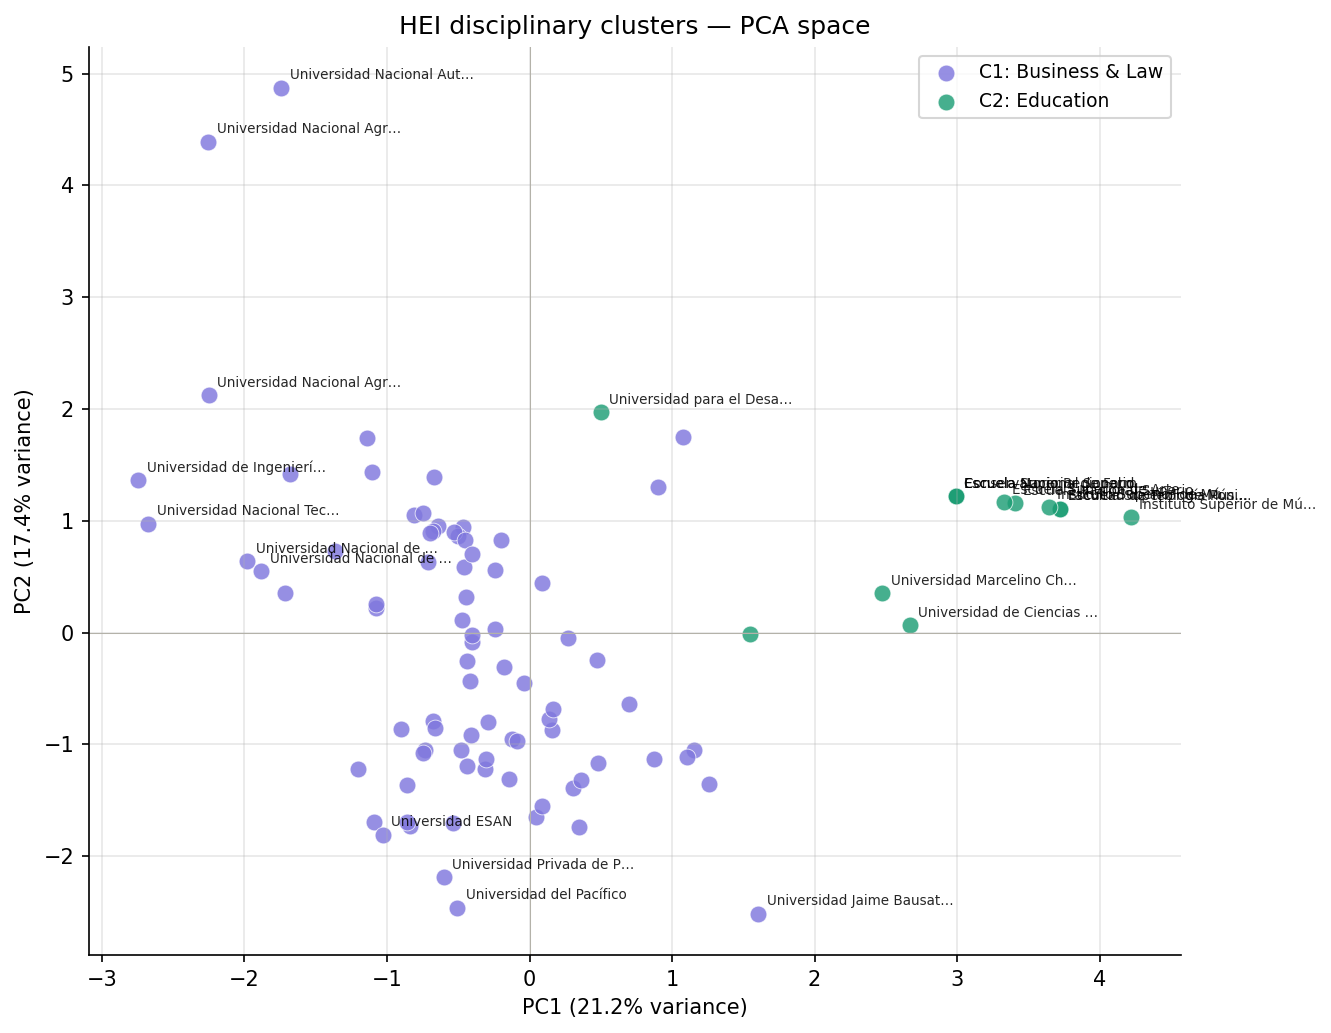
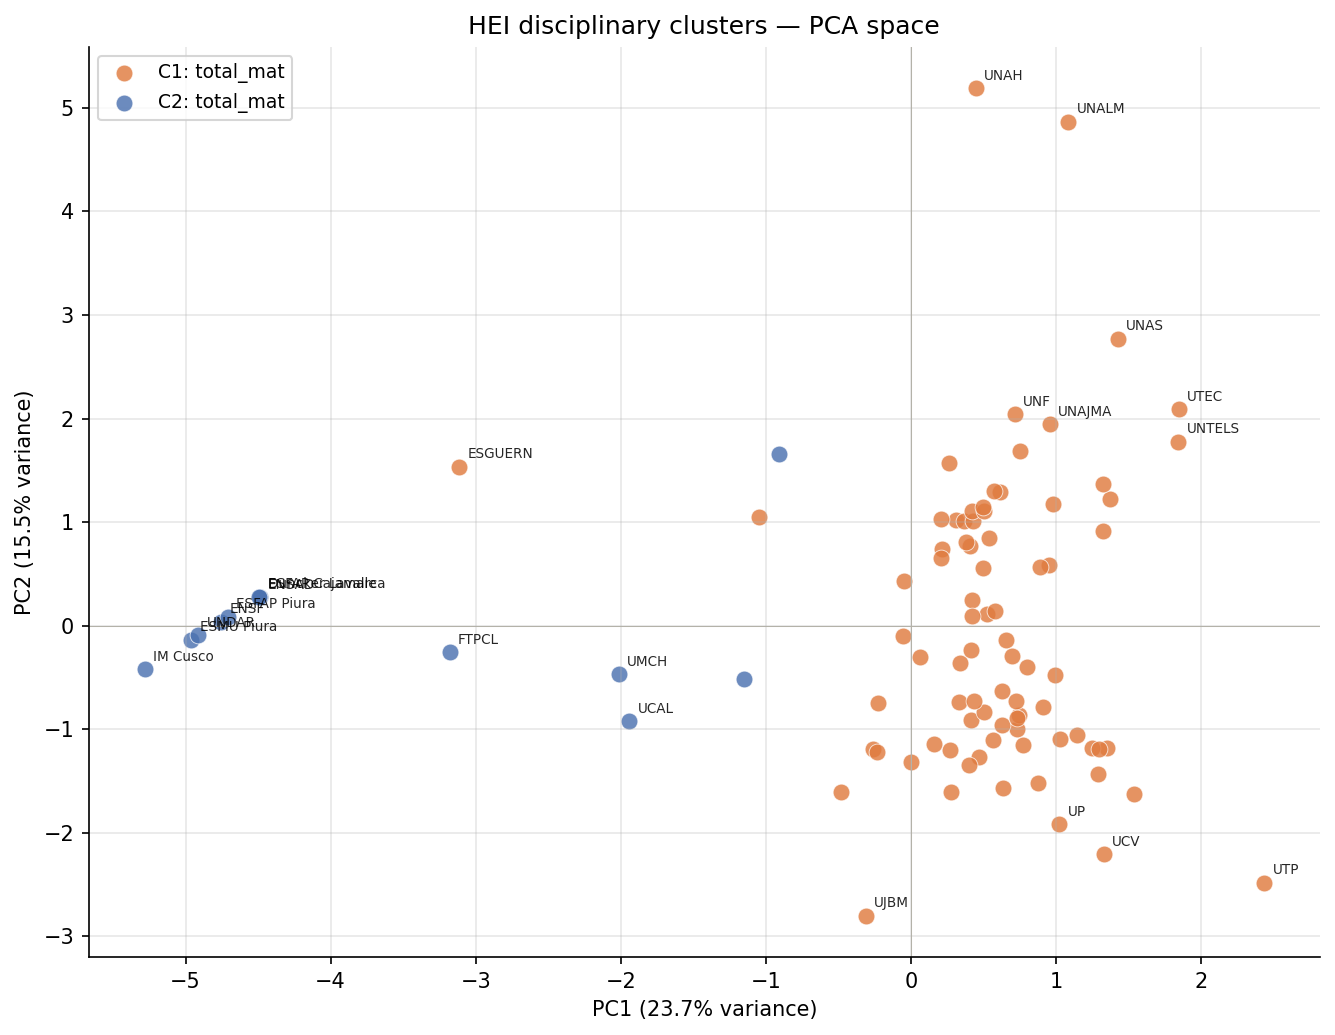
actualizar figuras con siglas y agregar script

diff --git a/src/regenerar_figuras_siglas.py b/src/regenerar_figuras_siglas.py
@@ -1,0 +1,306 @@
+"""
+regenerar_figuras_siglas.py
+============================
+Regenera los 3 gráficos usando las siglas oficiales de cada universidad:
+  - outputs/figures/03a_dendrograma.png
+  - outputs/figures/03b_scatter_kmeans.png
+  - outputs/figures/07b_scatter_disciplinar.png
+
+Uso:
+    python src/regenerar_figuras_siglas.py
+
+Requisitos previos (deben existir en data/):
+    - X_pca.npy
+    - k_optimo.npy
+    - labels_final.npy
+    - labels_disciplinar.npy
+    - matriz_maestra.csv
+    - matriculado_2025_I.csv  (o .zip)
+"""
+
+import sys
+import numpy as np
+import pandas as pd
+import matplotlib.pyplot as plt
+from scipy.cluster.hierarchy import dendrogram, linkage, fcluster
+from sklearn.decomposition import PCA
+from sklearn.cluster import KMeans
+from sklearn.preprocessing import StandardScaler
+from pathlib import Path
+
+# ── Paths ────────────────────────────────────────────────────────────────────
+sys.path.insert(0, str(Path(__file__).parent))
+from config import DATA_DIR, FIG_DIR, TABLE_DIR, RANDOM_STATE, MPL_STYLE, \
+                   CLUSTER_COLORS, DATA_URLS, K_FINAL
+
+plt.rcParams.update(MPL_STYLE)
+
+# ── Diccionario de siglas  ───────────────────────────────────────────────────
+SIGLAS = {
+    "Universidad Nacional Agraria La Molina":                              "UNALM",
+    "Universidad Nacional Agraria de la Selva":                            "UNAS",
+    "Universidad Marcelino Champagnat":                                    "UMCH",
+    "Universidad Autónoma del Perú S.A.C.":                                "Autónoma",
+    "Universidad para el Desarrollo Andino":                               "UDEA",
+    "Universidad Nacional de Tumbes":                                      "UNTUMBES",
+    "Universidad de Piura":                                                "UDEP",
+    "Universidad Tecnológica del Perú S.A.C.":                            "UTP",
+    "Universidad de Huánuco":                                              "UDH",
+    "Universidad Andina del Cusco":                                        "UAC",
+    "Universidad Nacional de Cajamarca":                                   "UNC",
+    "Universidad Privada de Huancayo Franklin Roosevelt S.A.C.":          "U. Roosevelt",
+    "Universidad del Pacífico":                                            "UP",
+    "Universidad ESAN":                                                    "ESAN",
+    "Universidad Nacional Intercultural de Quillabamba":                   "UNIQ",
+    "Universidad Católica de Trujillo Benedicto XVI":                      "UCT",
+    "Universidad Nacional Autónoma de Tayacaja Daniel Hernández Morillo":  "UNAT",
+    "Universidad Nacional de Juliaca":                                     "UNAJ",
+    "Universidad San Pedro":                                               "USP",
+    "Universidad Nacional de Frontera":                                    "UNF",
+    "Universidad Nacional José María Arguedas":                            "UNAJMA",
+    "Universidad José Carlos Mariátegui":                                  "UJCM",
+    "Universidad César Vallejo S.A.C.":                                    "UCV",
+    "Universidad Nacional Micaela Bastidas de Apurímac":                   "UNAMBA",
+    "Universidad Católica Santo Toribio de Mogrovejo":                     "USAT",
+    "Universidad Privada de Pucallpa S.A.C.":                             "UPP",
+    "Universidad Nacional del Altiplano":                                  "UNA Puno",
+    "Universidad Católica de Santa María":                                 "UCSM",
+    "Universidad Inca Garcilaso de la Vega Asociación Civil":              "UIGV",
+    "Universidad Señor de Sipán S.A.C.":                                  "USS",
+    "Universidad Nacional Toribio Rodríguez de Mendoza de Amazonas":       "UNTRM",
+    "Universidad Antonio Ruiz de Montoya":                                 "UARM",
+    "Universidad Católica San Pablo":                                      "UCSP",
+    "Universidad Nacional Federico Villarreal":                            "UNFV",
+    "Universidad Nacional Amazónica de Madre de Dios":                     "UNAMAD",
+    "Universidad Privada Antenor Orrego":                                  "UPAO",
+    "Universidad Católica Los Ángeles de Chimbote":                        "ULADECH",
+    "Universidad Femenina del Sagrado Corazón":                            "UNIFE",
+    "Universidad de Lima":                                                 "ULIMA",
+    "Escuela de Postgrado Gerens S.A.":                                    "GERENS",
+    "Universidad Nacional Hermilio Valdizán de Huánuco":                   "UNHEVAL",
+    "Universidad Continental S.A.C.":                                     "Continental",
+    "Pontificia Universidad Católica del Perú":                            "PUCP",
+    "Universidad Privada del Norte S.A.C.":                               "UPN",
+    "Universidad Científica del Sur S.A.C.":                              "UCSUR",
+    "Universidad Católica Sedes Sapientiae":                               "UCSS",
+    "Universidad Nacional del Callao":                                     "UNAC",
+    "Universidad Ricardo Palma":                                           "URP",
+    "Universidad Privada San Juan Bautista S.A.C.":                       "UPSJB",
+    "Universidad Nacional de Cañete":                                      "UNDC",
+    "Universidad Nacional Tecnológica de Lima Sur":                        "UNTELS",
+    "Universidad Nacional Santiago Antúnez de Mayolo":                     "UNASAM",
+    "Universidad de Ingeniería y Tecnología":                              "UTEC",
+    "Universidad Peruana de Ciencias Aplicadas S.A.C.":                   "UPC",
+    "Universidad Privada Norbert Wiener S.A.":                            "U. Wiener",
+    "Facultad de Teología Pontificia y Civil de Lima":                     "FTPCL",
+    "Universidad Nacional de Moquegua":                                    "UNAM",
+    "Universidad Nacional Daniel Alcides Carrión":                         "UNDAC",
+    "Universidad Nacional de San Agustín de Arequipa":                     "UNSA",
+    "Universidad Nacional de Jaén":                                        "UNJ",
+    "Universidad Peruana Los Andes":                                       "UPLA",
+    "Universidad Le Cordon Bleu S.A.C.":                                  "ULCB",
+    "Asociación Civil Universidad de Ciencias y Humanidades":              "UCH",
+    "Universidad Privada de Tacna":                                        "UPT",
+    "Universidad de San Martín de Porres":                                 "USMP",
+    "Universidad Nacional de Piura":                                       "UNP",
+    "Universidad Nacional de San Martín":                                  "UNSM",
+    "Universidad Nacional Autónoma de Chota":                              "UNACH",
+    "Universidad Nacional José Faustino Sánchez Carrión":                  "UNJFSC",
+    "Universidad Nacional Intercultural de la Selva Central Juan Santos Atahualpa": "UNISCJSA",
+    "Universidad Nacional Autónoma de Huanta":                             "UNAH",
+    "Universidad María Auxiliadora S.A.C.":                               "UMA",
+    "Universidad Peruana Unión":                                           "UPeU",
+    "Universidad Nacional de Huancavelica":                                "UNH",
+    "Universidad Andina Néstor Cáceres Velásquez":                         "UANCV",
+    "Universidad Nacional Pedro Ruiz Gallo":                               "UNPRG",
+    "Universidad Alas Peruanas S.A.":                                     "UAP",
+    "Universidad Peruana Cayetano Heredia":                                "UPCH",
+    "Universidad Jaime Bausate y Meza":                                    "UJBM",
+    "Universidad Nacional de San Cristóbal de Huamanga":                   "UNSCH",
+    "Universidad Nacional Mayor de San Marcos":                            "UNMSM",
+    "Universidad Nacional de la Amazonía Peruana":                         "UNAP",
+    "Universidad Científica del Perú":                                     "UCP",
+    "Universidad de Ciencias y Artes de América Latina S.A.C.":           "UCAL",
+    "Universidad Nacional del Centro del Perú":                            "UNCP",
+    "Escuela de Posgrado Newman S.A.C.":                                  "Newman",
+    "Universidad San Ignacio de Loyola S.R.L.":                           "USIL",
+    'Escuela Nacional Superior de Arte Dramático "Guillermo Ugarte Chamorro"': "ENSAD",
+    "Escuela Nacional Superior de Folklore José María Arguedas":           "ENSF",
+    "Escuela Superior de Guerra Naval":                                    "ESGUERN",
+    "Conservatorio Regional de Música Luis Duncker Lavalle":               "Duncker Lavalle",
+    "Instituto Superior de Música Público Daniel Alomía Robles de Huánuco": "UNDAR",
+    "Escuela Superior de Formación Artística Sérvulo Gutiérrez Alarcón de Ica": "ESFA Ica",
+    "Escuela Superior de Música Pública José María Valle Riestra de Piura": "ESMU Piura",
+    "Escuela Nacional Superior de Ballet":                                 "ENSB",
+    'Escuela Superior de Arte Dramático "Virgilio Rodríguez Nache"':       "ESAD Trujillo",
+    "Escuela Superior de Formación Artística Pública Mario Urteaga Alvarado de Cajamarca": "ESFAP Cajamarca",
+    "Escuela Superior de Arte Pública Ignacio Merino de Piura":            "ESFAP Piura",
+    "Instituto Superior de Música Público Leandro Alviña Miranda del Cusco": "IM Cusco",
+}
+
+def get_sigla(nombre):
+    """Retorna la sigla de una universidad dado su nombre completo."""
+    return SIGLAS.get(nombre, nombre[:12] + "…")
+
+
+# ── 1. Cargar datos base ─────────────────────────────────────────────────────
+print("Cargando datos...")
+X_pca     = np.load(DATA_DIR / "X_pca.npy")
+k_arr     = np.load(DATA_DIR / "k_optimo.npy")
+K         = int(K_FINAL) if K_FINAL else int(k_arr[0])
+labels_km = np.load(DATA_DIR / "labels_final.npy")
+
+local_m   = DATA_DIR / "matriz_maestra.csv"
+df_master = pd.read_csv(local_m) if local_m.exists() else pd.read_csv(DATA_URLS["maestra"])
+unis      = df_master["universidad"].values
+siglas    = [get_sigla(u) for u in unis]
+
+print(f"  IES: {len(unis)}  |  k = {K}")
+
+
+# ════════════════════════════════════════════════════════════════════════════════
+# FIGURA 03a — DENDROGRAMA WARD
+# ════════════════════════════════════════════════════════════════════════════════
+print("\nGenerando 03a_dendrograma.png ...")
+
+Z = linkage(X_pca, method="ward")
+cut_height = Z[-K + 1, 2]
+
+fig, ax = plt.subplots(figsize=(22, 7))
+ax.set_facecolor("white")
+fig.patch.set_facecolor("white")
+for sp in ax.spines.values():
+    sp.set_linewidth(0.6)
+    sp.set_color("#CCCCCC")
+ax.tick_params(width=0.6, color="#CCCCCC")
+ax.yaxis.grid(True, linestyle="--", linewidth=0.4, color="#DDDDDD", alpha=0.7)
+ax.set_axisbelow(True)
+
+dendrogram(
+    Z,
+    labels=siglas,
+    ax=ax,
+    leaf_font_size=7,
+    color_threshold=cut_height,
+    above_threshold_color="#B4B2A9",
+    leaf_rotation=90,
+)
+
+ax.axhline(cut_height, color="#D85A30", linestyle="--",
+           linewidth=1.2, alpha=0.85, zorder=5)
+ax.text(4, cut_height * 1.03, f"cut k={K}",
+        color="#D85A30", fontsize=9, va="bottom")
+ax.set_title(f"Ward dendrogram — Hierarchical clustering (k={K})",
+             fontsize=12, fontweight="bold", pad=10)
+ax.set_xlabel("Universidad", fontsize=10)
+ax.set_ylabel("Distancia euclidiana (espacio PCA)", fontsize=10)
+
+plt.tight_layout()
+fig.savefig(FIG_DIR / "03a_dendrograma.png", bbox_inches="tight", dpi=180, facecolor="white")
+plt.close()
+print("  ✓ Guardado: outputs/figures/03a_dendrograma.png")
+
+
+# ════════════════════════════════════════════════════════════════════════════════
+# FIGURA 03b — SCATTER K-MEANS
+# ════════════════════════════════════════════════════════════════════════════════
+print("\nGenerando 03b_scatter_kmeans.png ...")
+
+fig, ax = plt.subplots(figsize=(11, 9))
+for cl in range(K):
+    mask = labels_km == cl
+    ax.scatter(X_pca[mask, 0], X_pca[mask, 1],
+               c=CLUSTER_COLORS[cl], s=70, label=f"Cluster {cl+1}",
+               alpha=0.85, edgecolors="white", linewidths=0.4, zorder=3)
+
+threshold_label = 1.5
+for i, nombre in enumerate(unis):
+    if abs(X_pca[i, 0]) > threshold_label or abs(X_pca[i, 1]) > threshold_label:
+        ax.annotate(
+            get_sigla(nombre),
+            (X_pca[i, 0], X_pca[i, 1]),
+            fontsize=7, alpha=0.85,
+            xytext=(4, 4), textcoords="offset points",
+        )
+
+ax.axhline(0, color="#B4B2A9", linewidth=0.5)
+ax.axvline(0, color="#B4B2A9", linewidth=0.5)
+ax.set_xlabel("PC1", fontsize=11)
+ax.set_ylabel("PC2", fontsize=11)
+ax.set_title(f"K-Means (k={K}) in PCA space — Peruvian universities 2025", fontsize=12)
+ax.legend(fontsize=9)
+fig.tight_layout()
+fig.savefig(FIG_DIR / "03b_scatter_kmeans.png", bbox_inches="tight", dpi=150)
+plt.close()
+print("  ✓ Guardado: outputs/figures/03b_scatter_kmeans.png")
+
+
+# ════════════════════════════════════════════════════════════════════════════════
+# FIGURA 07b — SCATTER DISCIPLINAR
+# ════════════════════════════════════════════════════════════════════════════════
+print("\nGenerando 07b_scatter_disciplinar.png ...")
+
+# Cargar clustering disciplinar
+labels_disc_path = DATA_DIR / "labels_disciplinar.npy"
+if not labels_disc_path.exists():
+    print("  ⚠ No se encontró labels_disciplinar.npy — ejecuta primero 07_disciplinar.py")
+else:
+    labels_disc = np.load(labels_disc_path)
+
+    # Cargar perfil disciplinar
+    disc_csv = TABLE_DIR / "07_perfil_disciplinar.csv"
+    if not disc_csv.exists():
+        print("  ⚠ No se encontró 07_perfil_disciplinar.csv — ejecuta primero 07_disciplinar.py")
+    else:
+        df_disc = pd.read_csv(disc_csv)
+        df_disc["cluster_disc"] = labels_disc + 1
+
+        # PCA 2D sobre el perfil disciplinar
+        AREAS_EN = [c for c in df_disc.columns if c not in
+                    ("universidad", "cluster_disc", "cluster_main",
+                     "is_public", "es_publico")]
+        X_disc = df_disc[AREAS_EN].fillna(0).values
+        X_s    = StandardScaler().fit_transform(X_disc)
+        pca2   = PCA(n_components=2, random_state=RANDOM_STATE)
+        X_2d   = pca2.fit_transform(X_s)
+
+        best_k = int(df_disc["cluster_disc"].max())
+        DISC_COLORS = ["#E07B3F", "#4C72B0", "#55A868", "#C44E52",
+                       "#8172B2", "#937860"][:best_k]
+
+        # Etiquetas por clúster dominante
+        disc_labels = {}
+        for cl in range(1, best_k + 1):
+            sub = df_disc[df_disc["cluster_disc"] == cl][AREAS_EN]
+            dom = sub.mean().idxmax()
+            disc_labels[cl] = dom
+
+        fig, ax = plt.subplots(figsize=(9, 7))
+        for cl in range(1, best_k + 1):
+            mask = df_disc["cluster_disc"] == cl
+            ax.scatter(X_2d[mask, 0], X_2d[mask, 1],
+                       c=DISC_COLORS[cl - 1], s=65, alpha=0.82,
+                       edgecolors="white", linewidths=0.4,
+                       label=f"C{cl}: {disc_labels[cl]}")
+
+        for i, uni in enumerate(df_disc["universidad"]):
+            if abs(X_2d[i, 0]) > 1.8 or abs(X_2d[i, 1]) > 1.8:
+                ax.annotate(
+                    get_sigla(uni),
+                    (X_2d[i, 0], X_2d[i, 1]),
+                    fontsize=6.5, xytext=(4, 4),
+                    textcoords="offset points", alpha=0.85,
+                )
+
+        ax.axhline(0, color="#B4B2A9", linewidth=0.5)
+        ax.axvline(0, color="#B4B2A9", linewidth=0.5)
+        ax.set_xlabel(f"PC1 ({pca2.explained_variance_ratio_[0]*100:.1f}% variance)")
+        ax.set_ylabel(f"PC2 ({pca2.explained_variance_ratio_[1]*100:.1f}% variance)")
+        ax.set_title("HEI disciplinary clusters — PCA space", fontsize=12)
+        ax.legend(fontsize=9)
+        fig.tight_layout()
+        fig.savefig(FIG_DIR / "07b_scatter_disciplinar.png", bbox_inches="tight", dpi=150)
+        plt.close()
+        print("  ✓ Guardado: outputs/figures/07b_scatter_disciplinar.png")
+
+print("\n✅ Listo. Los 3 gráficos han sido actualizados con las siglas.")